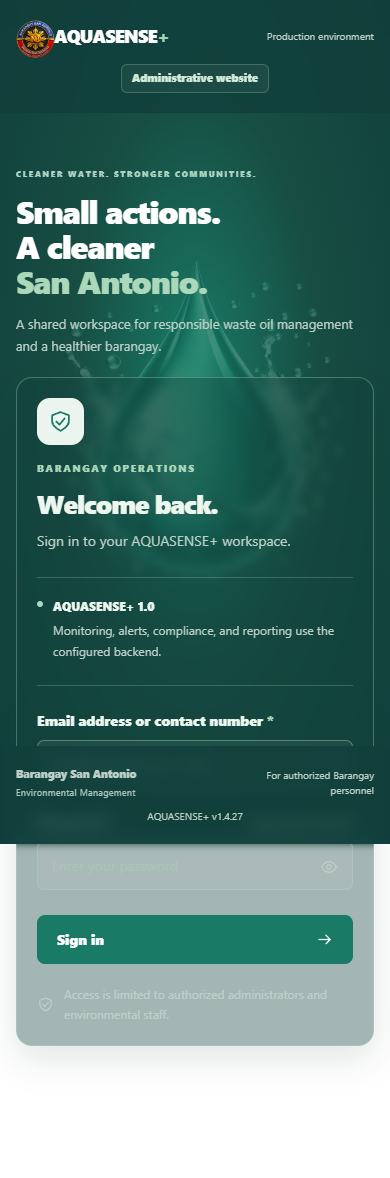
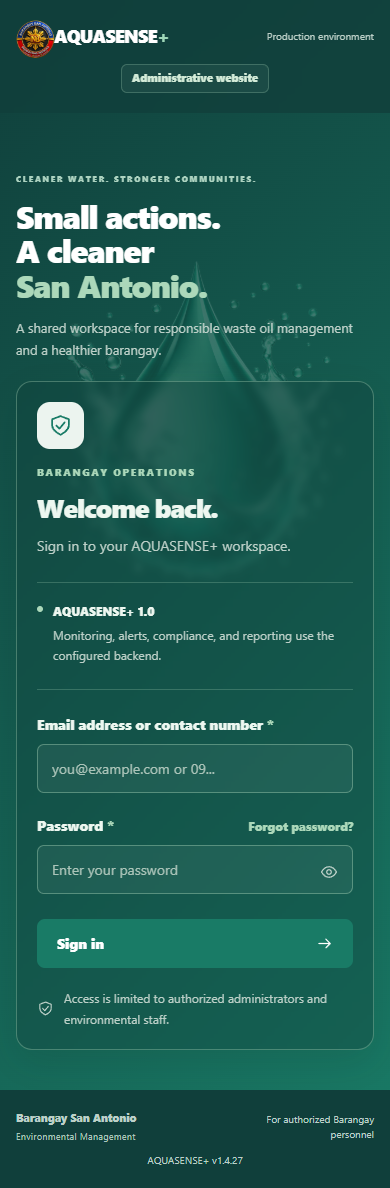
Replace mobile website screenshot with corrected footer layout preview

diff --git a/README.md b/README.md
@@ -4,14 +4,16 @@
 
 ### Screenshots
 
-Live website sign-in screens captured on 2026-11-11. The deployed website shown
+Website sign-in screens captured on 2026-11-11. The deployed website shown
 here displays v1.4.27; these captures do not represent the newer local release.
+The phone-width image is a layout preview with browser-only footer positioning,
+card contrast and background corrections; those corrections are not deployed.
 
 **Desktop website**
 
 ![AQUASENSE+ website sign-in on desktop](docs/screenshots/website-login-desktop.png)
 
-**Website on a phone-sized screen**
+**Website on a phone-sized screen — corrected layout preview**
 
 <img src="docs/screenshots/website-login-mobile.png" alt="AQUASENSE+ website sign-in at phone width" width="390">
 
